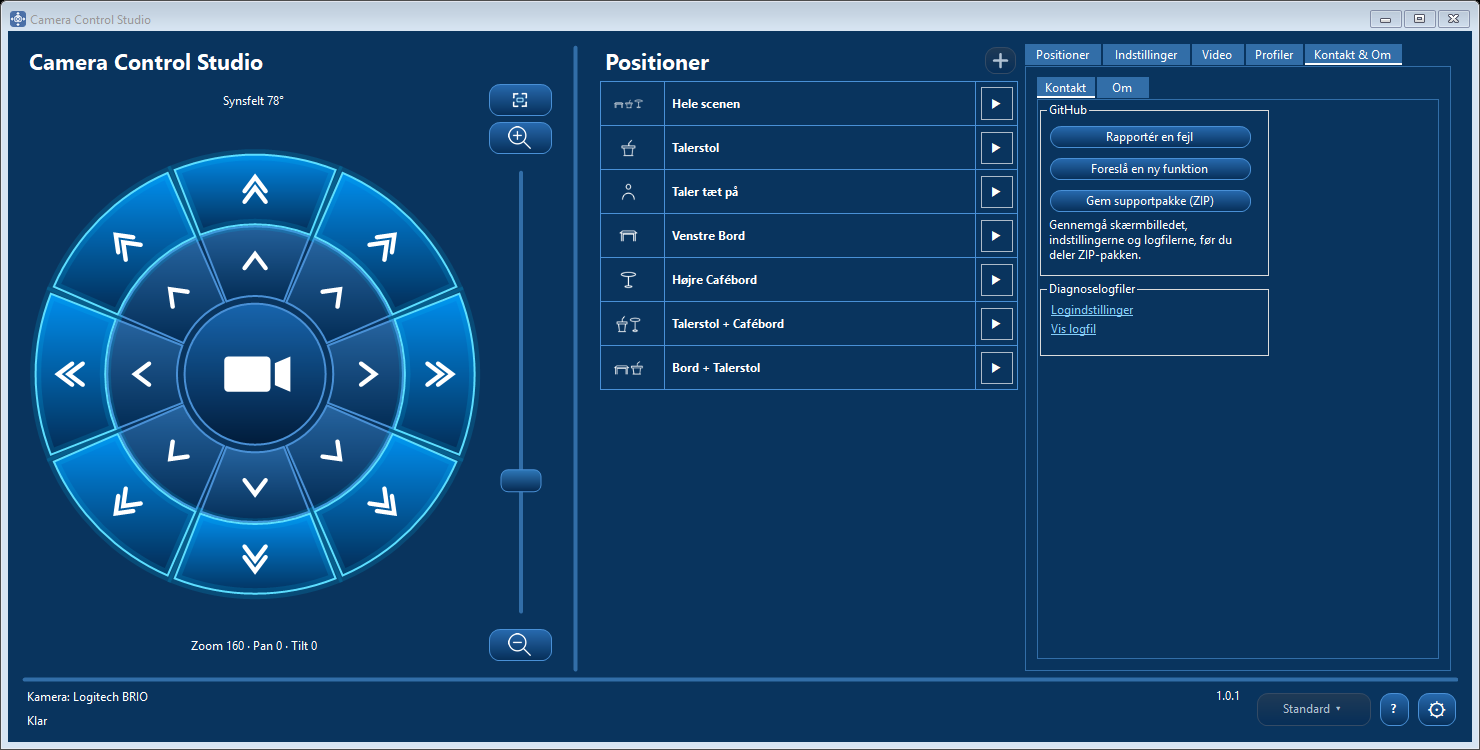
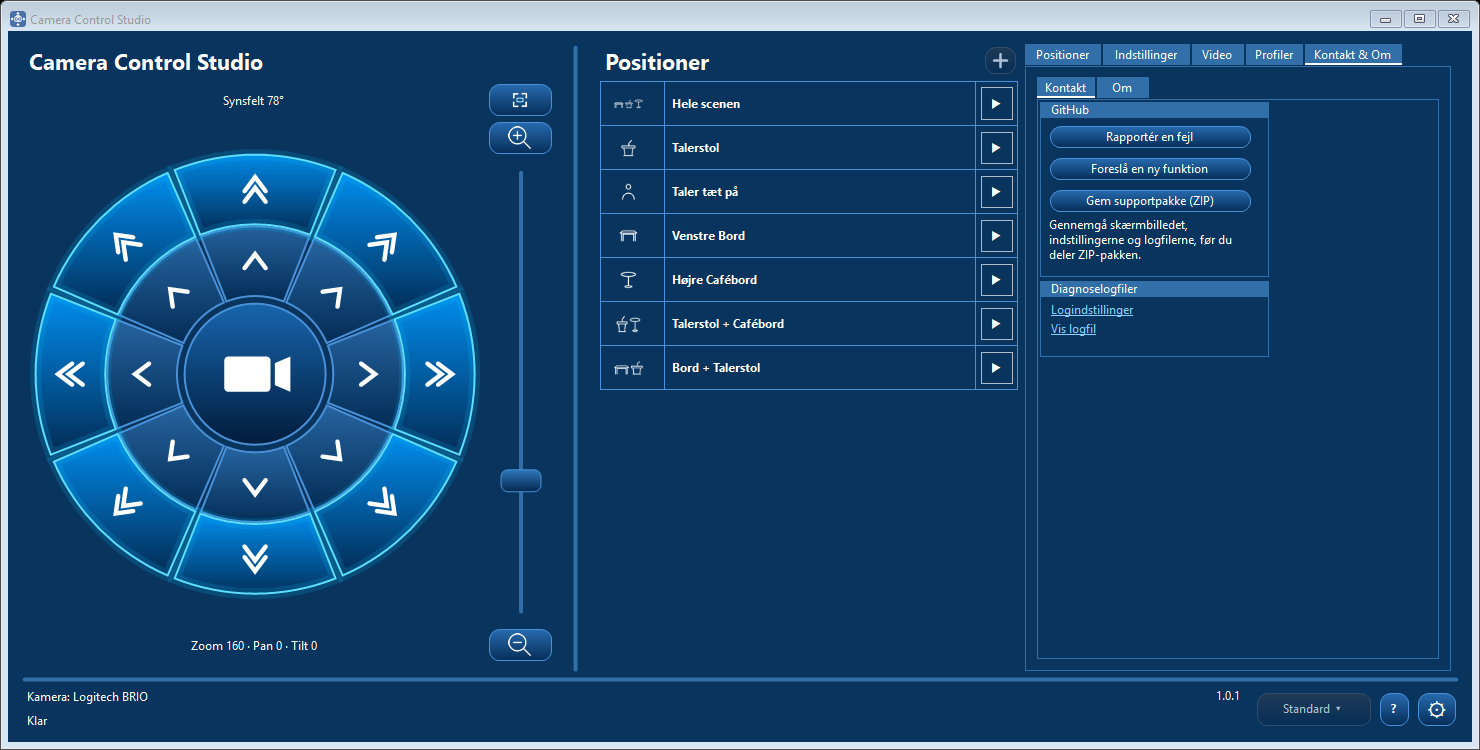
Match group box colors and mark required issue details
Use the tab color on settings group captions and borders. Add red asterisks and a legend for essential bug and feature details, and refresh the English and Danish guide examples.

Changed region(s): [[0.6838, 0.1227, 0.8703, 0.184], [0.6838, 0.368, 0.8703, 0.3987]]

diff --git a/Source/CameraControlStudio/Forms/MainForm.Designer.cs b/Source/CameraControlStudio/Forms/MainForm.Designer.cs
@@ -24,7 +24,7 @@ namespace CameraControlStudio {
             this.documentationTimer = new System.Windows.Forms.Timer(this.components);
             this.settingsCategories = new CameraControlStudio.BlueTabControl();
             this.motionTab = new System.Windows.Forms.TabPage();
-            this.motionGroup = new System.Windows.Forms.GroupBox();
+            this.motionGroup = new CameraControlStudio.BlueGroupBox();
             this.movementScroll = new System.Windows.Forms.Panel();
             this.generalFields = new System.Windows.Forms.TableLayoutPanel();
             this.directionSeparator = new CameraControlStudio.MainViewSeparator();
@@ -57,11 +57,11 @@ namespace CameraControlStudio {
             this.applicationTab = new System.Windows.Forms.TabPage();
             this.applicationScroll = new System.Windows.Forms.Panel();
             this.applicationFields = new System.Windows.Forms.TableLayoutPanel();
-            this.windowGroup = new System.Windows.Forms.GroupBox();
+            this.windowGroup = new CameraControlStudio.BlueGroupBox();
             this.windowFields = new System.Windows.Forms.TableLayoutPanel();
             this.streamingCheck = new CameraControlStudio.BlueCheckBox();
             this.alwaysTop = new CameraControlStudio.BlueCheckBox();
-            this.languageGroup = new System.Windows.Forms.GroupBox();
+            this.languageGroup = new CameraControlStudio.BlueGroupBox();
             this.language = new System.Windows.Forms.ComboBox();
             this.videoLayout = new System.Windows.Forms.TableLayoutPanel();
             this.videoStatus = new System.Windows.Forms.FlowLayoutPanel();
@@ -71,51 +71,51 @@ namespace CameraControlStudio {
             this.imageCategories = new CameraControlStudio.BlueTabControl();
             this.focusTab = new System.Windows.Forms.TabPage();
             this.focusPanel = new System.Windows.Forms.Panel();
-            this.gainControl = new System.Windows.Forms.GroupBox();
+            this.gainControl = new CameraControlStudio.BlueGroupBox();
             this.gainAutomatic = new CameraControlStudio.BlueCheckBox();
             this.gainSlider = new System.Windows.Forms.TrackBar();
-            this.exposureControl = new System.Windows.Forms.GroupBox();
+            this.exposureControl = new CameraControlStudio.BlueGroupBox();
             this.exposureAutomatic = new CameraControlStudio.BlueCheckBox();
             this.exposureSlider = new System.Windows.Forms.TrackBar();
-            this.focusControl = new System.Windows.Forms.GroupBox();
+            this.focusControl = new CameraControlStudio.BlueGroupBox();
             this.focusAutomatic = new CameraControlStudio.BlueCheckBox();
             this.focusSlider = new System.Windows.Forms.TrackBar();
             this.colourTab = new System.Windows.Forms.TabPage();
             this.colourPanel = new System.Windows.Forms.Panel();
-            this.whiteBalanceControl = new System.Windows.Forms.GroupBox();
+            this.whiteBalanceControl = new CameraControlStudio.BlueGroupBox();
             this.whiteBalanceAutomatic = new CameraControlStudio.BlueCheckBox();
             this.whiteBalanceSlider = new System.Windows.Forms.TrackBar();
-            this.saturationControl = new System.Windows.Forms.GroupBox();
+            this.saturationControl = new CameraControlStudio.BlueGroupBox();
             this.saturationAutomatic = new CameraControlStudio.BlueCheckBox();
             this.saturationSlider = new System.Windows.Forms.TrackBar();
-            this.gammaControl = new System.Windows.Forms.GroupBox();
+            this.gammaControl = new CameraControlStudio.BlueGroupBox();
             this.gammaAutomatic = new CameraControlStudio.BlueCheckBox();
             this.gammaSlider = new System.Windows.Forms.TrackBar();
-            this.hueControl = new System.Windows.Forms.GroupBox();
+            this.hueControl = new CameraControlStudio.BlueGroupBox();
             this.hueAutomatic = new CameraControlStudio.BlueCheckBox();
             this.hueSlider = new System.Windows.Forms.TrackBar();
             this.lightTab = new System.Windows.Forms.TabPage();
             this.lightPanel = new System.Windows.Forms.Panel();
-            this.contrastControl = new System.Windows.Forms.GroupBox();
+            this.contrastControl = new CameraControlStudio.BlueGroupBox();
             this.contrastAutomatic = new CameraControlStudio.BlueCheckBox();
             this.contrastSlider = new System.Windows.Forms.TrackBar();
-            this.brightnessControl = new System.Windows.Forms.GroupBox();
+            this.brightnessControl = new CameraControlStudio.BlueGroupBox();
             this.brightnessAutomatic = new CameraControlStudio.BlueCheckBox();
             this.brightnessSlider = new System.Windows.Forms.TrackBar();
-            this.backlightControl = new System.Windows.Forms.GroupBox();
+            this.backlightControl = new CameraControlStudio.BlueGroupBox();
             this.backlightAutomatic = new CameraControlStudio.BlueCheckBox();
             this.backlightSlider = new System.Windows.Forms.TrackBar();
-            this.sharpnessControl = new System.Windows.Forms.GroupBox();
+            this.sharpnessControl = new CameraControlStudio.BlueGroupBox();
             this.sharpnessAutomatic = new CameraControlStudio.BlueCheckBox();
             this.sharpnessSlider = new System.Windows.Forms.TrackBar();
             this.resetVideoControls = new CameraControlStudio.BlueButton();
             this.contactTab = new System.Windows.Forms.TabPage();
             this.issueGroups = new System.Windows.Forms.FlowLayoutPanel();
-            this.logGroup = new System.Windows.Forms.GroupBox();
+            this.logGroup = new CameraControlStudio.BlueGroupBox();
             this.logActions = new System.Windows.Forms.FlowLayoutPanel();
             this.logSettingsLink = new System.Windows.Forms.LinkLabel();
             this.showLogLink = new System.Windows.Forms.LinkLabel();
-            this.reportGroup = new System.Windows.Forms.GroupBox();
+            this.reportGroup = new CameraControlStudio.BlueGroupBox();
             this.reportActions = new System.Windows.Forms.FlowLayoutPanel();
             this.reportNote = new System.Windows.Forms.Label();
             this.reportIssueButton = new CameraControlStudio.BlueButton();
@@ -2023,11 +2023,11 @@ namespace CameraControlStudio {
         private BlueTabControl settingsCategories;
         private TabPage motionTab;
         private TabPage applicationTab;
-        private GroupBox motionGroup;
+        private BlueGroupBox motionGroup;
         private Panel applicationScroll;
         private TableLayoutPanel applicationFields;
-        private GroupBox windowGroup;
-        private GroupBox languageGroup;
+        private BlueGroupBox windowGroup;
+        private BlueGroupBox languageGroup;
         private TableLayoutPanel windowFields;
         private TableLayoutPanel videoLayout;
         private FlowLayoutPanel videoStatus;
@@ -2038,47 +2038,47 @@ namespace CameraControlStudio {
         private BlueButton resetVideoControls;
         private TabPage focusTab;
         private Panel focusPanel;
-        private GroupBox focusControl;
+        private BlueGroupBox focusControl;
         private TrackBar focusSlider;
         private BlueCheckBox focusAutomatic;
-        private GroupBox exposureControl;
+        private BlueGroupBox exposureControl;
         private TrackBar exposureSlider;
         private BlueCheckBox exposureAutomatic;
-        private GroupBox gainControl;
+        private BlueGroupBox gainControl;
         private TrackBar gainSlider;
         private BlueCheckBox gainAutomatic;
         private TabPage colourTab;
         private Panel colourPanel;
-        private GroupBox hueControl;
+        private BlueGroupBox hueControl;
         private TrackBar hueSlider;
         private BlueCheckBox hueAutomatic;
-        private GroupBox gammaControl;
+        private BlueGroupBox gammaControl;
         private TrackBar gammaSlider;
         private BlueCheckBox gammaAutomatic;
-        private GroupBox saturationControl;
+        private BlueGroupBox saturationControl;
         private TrackBar saturationSlider;
         private BlueCheckBox saturationAutomatic;
-        private GroupBox whiteBalanceControl;
+        private BlueGroupBox whiteBalanceControl;
         private TrackBar whiteBalanceSlider;
         private BlueCheckBox whiteBalanceAutomatic;
         private TabPage lightTab;
         private Panel lightPanel;
-        private GroupBox sharpnessControl;
+        private BlueGroupBox sharpnessControl;
         private TrackBar sharpnessSlider;
         private BlueCheckBox sharpnessAutomatic;
-        private GroupBox backlightControl;
+        private BlueGroupBox backlightControl;
         private TrackBar backlightSlider;
         private BlueCheckBox backlightAutomatic;
-        private GroupBox brightnessControl;
+        private BlueGroupBox brightnessControl;
         private TrackBar brightnessSlider;
         private BlueCheckBox brightnessAutomatic;
-        private GroupBox contrastControl;
+        private BlueGroupBox contrastControl;
         private TrackBar contrastSlider;
         private BlueCheckBox contrastAutomatic;
         private TabPage contactTab;
         private FlowLayoutPanel issueGroups;
-        private GroupBox logGroup;
-        private GroupBox reportGroup;
+        private BlueGroupBox logGroup;
+        private BlueGroupBox reportGroup;
         private FlowLayoutPanel logActions;
         private FlowLayoutPanel reportActions;
         private LinkLabel logSettingsLink;

diff --git a/Source/CameraControlStudio/Controls/BlueGroupBox.cs b/Source/CameraControlStudio/Controls/BlueGroupBox.cs
@@ -1,0 +1,45 @@
+using System;
+using System.Drawing;
+using System.Windows.Forms;
+
+namespace CameraControlStudio
+{
+    public sealed class BlueGroupBox : GroupBox
+    {
+        public BlueGroupBox()
+        {
+            SetStyle(ControlStyles.ResizeRedraw, true);
+        }
+
+        protected override void OnPaint(PaintEventArgs e)
+        {
+            if (SystemInformation.HighContrast)
+            {
+                base.OnPaint(e);
+                return;
+            }
+
+            var bounds = ClientRectangle;
+            if (bounds.Width < 2 || bounds.Height < 2)
+                return;
+
+            var blue = MainViewSplitter.LineColor;
+            int captionHeight = Math.Min(bounds.Height, Font.Height);
+            using (var fill = new SolidBrush(blue))
+            using (var border = new Pen(blue))
+            {
+                e.Graphics.FillRectangle(fill, 0, 0, bounds.Width, captionHeight);
+                e.Graphics.DrawRectangle(border, 0, 0, bounds.Width - 1, bounds.Height - 1);
+            }
+
+            int inset = Math.Min(8 * DeviceDpi / 96, (bounds.Width - 1) / 2);
+            var caption = new Rectangle(inset, 0, bounds.Width - 2 * inset, captionHeight);
+            var flags = TextFormatFlags.SingleLine | TextFormatFlags.VerticalCenter | TextFormatFlags.EndEllipsis;
+            if (RightToLeft == RightToLeft.Yes)
+                flags |= TextFormatFlags.RightToLeft | TextFormatFlags.Right;
+            if (!ShowKeyboardCues)
+                flags |= TextFormatFlags.HidePrefix;
+            TextRenderer.DrawText(e.Graphics, Text, Font, caption, Color.White, flags);
+        }
+    }
+}

diff --git a/.github/ISSUE_TEMPLATE/bugs.md b/.github/ISSUE_TEMPLATE/bugs.md
@@ -4,25 +4,31 @@ about: Describe unexpected behaviour
 type: Bug
 labels: bug
 ---
-## Expected and actual behaviour
+## Expected and actual behaviour ![Required][required]
 What should happen? What happened instead?
 ### Answer:
 > (Please provide a clear and concise description of what you expected to happen and what actually occurred. Include any relevant details that can help us understand the issue.))
 
-## Steps to reproduce
-List the steps. If it happens only sometimes, say how often.
+## Steps to reproduce ![Required][required]
+List the steps in order. If the bug is intermittent, say how often it happens and what you were doing just before it happened. If it worked in an earlier version, name the last version that worked, if known.
 ### Answer:
 > (Please provide a step-by-step description of how to reproduce the issue. Include any specific conditions or settings that may be relevant. If the issue is intermittent, please indicate how frequently it occurs.))
 
-## Environment
-List the app version, Windows version, display scale, camera and driver. Include the capture app if you used one.
+## Environment ![Required][required]
+List the Camera Control Studio version and Windows version. Include the camera model, driver version, capture app and its version, and display scale if they are relevant. If a relevant detail is unknown, say so.
 ### Answer:
 > (Please provide details about the environment in which the issue occurred. This may include the version of the application, the operating system and its version, display settings, camera model and driver version, and any capture applications used. This information can help us identify potential causes of the issue.)
 
-## Evidence
+## Evidence (optional)
 Attach a screenshot or error text. Remove personal information first.
 ### Answer:
 > (Please attach any relevant evidence that can help us understand the issue. This may include screenshots, error messages, or logs. Ensure that any personal information is removed before sharing.)
 
-## Support ZIP
+## Support ZIP (optional)
 In Camera Control Studio, open **Contact & About → Contact → Save support ZIP**. Review the screenshot, profile settings, window layout, and logs. Drag the ZIP or the relevant files into this issue.
+
+---
+
+![Required][required] **Required.** Always fill in the sections marked with a red asterisk.
+
+[required]: https://raw.githubusercontent.com/bkristensen/Camera-Ctrl-Pressets-Studio/main/.github/ISSUE_TEMPLATE/required.png

diff --git a/.github/ISSUE_TEMPLATE/feature.md b/.github/ISSUE_TEMPLATE/feature.md
@@ -4,7 +4,7 @@ about: Suggest a focused improvement
 type: Feature
 labels: enhancement
 ---
-## Type of feature request
+## Type of feature request (optional)
 What type of feature are you requesting? Please select one of the following:
 - [ ] New functionality
 - [ ] Improvement to existing functionality
@@ -14,12 +14,12 @@ What type of feature are you requesting? Please select one of the following:
 
 Comment: 
 
-## Describe the feature
+## Describe the feature ![Required][required]
 Describe the feature you would like to see implemented. Please provide as much detail as possible, including any relevant use cases or scenarios where this feature would be beneficial.
 > (Please provide a clear and concise description of the feature you are requesting. Include any relevant details that can help us understand the purpose and potential impact of the feature. If applicable, describe how this feature would improve the user experience or address a specific need.)))
 
-## Proposed behaviour
-Describe one task and how you would use the new feature.
+## Proposed behaviour ![Required][required]
+Describe one task and how you would use the new feature. Say what result would show that it works for you.
 > (Please provide a clear and concise description of how you would use the proposed feature. Include any relevant details that can help us understand the intended usage scenario.))
 
 ## Simpler alternatives (optional)
@@ -32,3 +32,9 @@ If possible, provide a screenshot or mockup of the proposed feature.
 
 ## Include files (optional)
 Attach a screenshot, mockup, or files that help explain the request. In Camera Control Studio, choose **Contact & About → Contact → Save support ZIP** if your setup is relevant. The ZIP contains a screenshot, profiles, the window layout, and any available logs. Review it before dragging it into this issue.
+
+---
+
+![Required][required] **Required.** Always fill in the sections marked with a red asterisk.
+
+[required]: https://raw.githubusercontent.com/bkristensen/Camera-Ctrl-Pressets-Studio/main/.github/ISSUE_TEMPLATE/required.png

diff --git a/Source/docs/da/Report a bug.md b/Source/docs/da/Report a bug.md
@@ -8,7 +8,7 @@
 
 ## Beskriv fejlen og vedhæft ZIP-filen
 
-Knappen åbner GitHubs skabelon **Bug report**. Skriv, hvad du forventede, hvad der skete, og hvordan fejlen kan genskabes. Angiv appversion, Windows-version, kameramodel og det optageprogram, du brugte.
+Knappen åbner GitHubs skabelon **Bug report**. Udfyld alle afsnit med en rød stjerne. Skriv, hvad du forventede, hvad der skete, og hvordan fejlen kan genskabes. Angiv appversion og Windows-version. Tilføj kamera og optageopsætning, hvis det er relevant.
 
 Du kan altid oprette den samme pakke med **Kontakt & Om → Kontakt → Gem supportpakke (ZIP)**. Den indeholder et skærmbillede af Camera Control Studio, den gemte `profiles.json`, vinduets layout i `window.json` og tilgængelige logfiler i `Logs`. Appen viser stien til den gemte fil.
 

diff --git a/Source/docs/en/Report a bug.md b/Source/docs/en/Report a bug.md
@@ -8,7 +8,7 @@
 
 ## Add details and attach the ZIP
 
-The button opens GitHub’s **Bug report** template. Say what you expected, what happened, and how to reproduce it. Include the app version, Windows version, camera model and capture app.
+The button opens GitHub’s **Bug report** template. Fill in every section marked with a red asterisk. Say what you expected, what happened, and how to reproduce it. Include the app and Windows versions. Add the camera and capture setup if relevant.
 
 You can create the same package at any time with **Contact & About → Contact → Save support ZIP**. It contains a screenshot of Camera Control Studio, the saved `profiles.json`, a `window.json` with the window layout, and available logs under `Logs`. The app shows the saved file path.
 

diff --git a/Source/docs/da/Request a feature.md b/Source/docs/da/Request a feature.md
@@ -2,7 +2,7 @@
 
 1. Åbn indstillingspanelet. Vælg **Kontakt & Om → Kontakt → Foreslå en ny funktion**.
 2. Hvis appen finder en nyere version, så vælg **Ja** for at åbne siden, hvor du kan hente den. Installér den, og se, om den allerede har funktionen. Vælg **Nej** for at fortsætte til udkastet på GitHub.
-3. I GitHubs skabelon **Feature request** beskriver du opgaven, hvordan funktionen vil hjælpe, og hvordan du løser opgaven i dag.
+3. Udfyld alle afsnit med en rød stjerne i GitHubs skabelon **Feature request**. Beskriv opgaven, hvordan funktionen vil hjælpe, og hvilket resultat der viser, at den virker.
 
 ![Fanen Kontakt med knapperne Foreslå en ny funktion og Gem supportpakke](../images/screenshots/contact/da/issues.png)
 

diff --git a/Source/docs/en/Request a feature.md b/Source/docs/en/Request a feature.md
@@ -2,7 +2,7 @@
 
 1. Open the settings pane. Choose **Contact & About → Contact → Request a new feature**.
 2. If the app finds a newer release, choose **Yes** to open its download page. Install it and check whether it has the feature. Choose **No** to continue to the GitHub draft.
-3. In GitHub’s **Feature request** template, describe the task you want to do, how the feature would help, and any workaround you use today.
+3. In GitHub’s **Feature request** template, fill in every section marked with a red asterisk. Describe the task, how the feature would help, and what result would show it works.
 
 ![Contact tab with Request a new feature and Save support ZIP](../images/screenshots/contact/en/issues.png)
 
